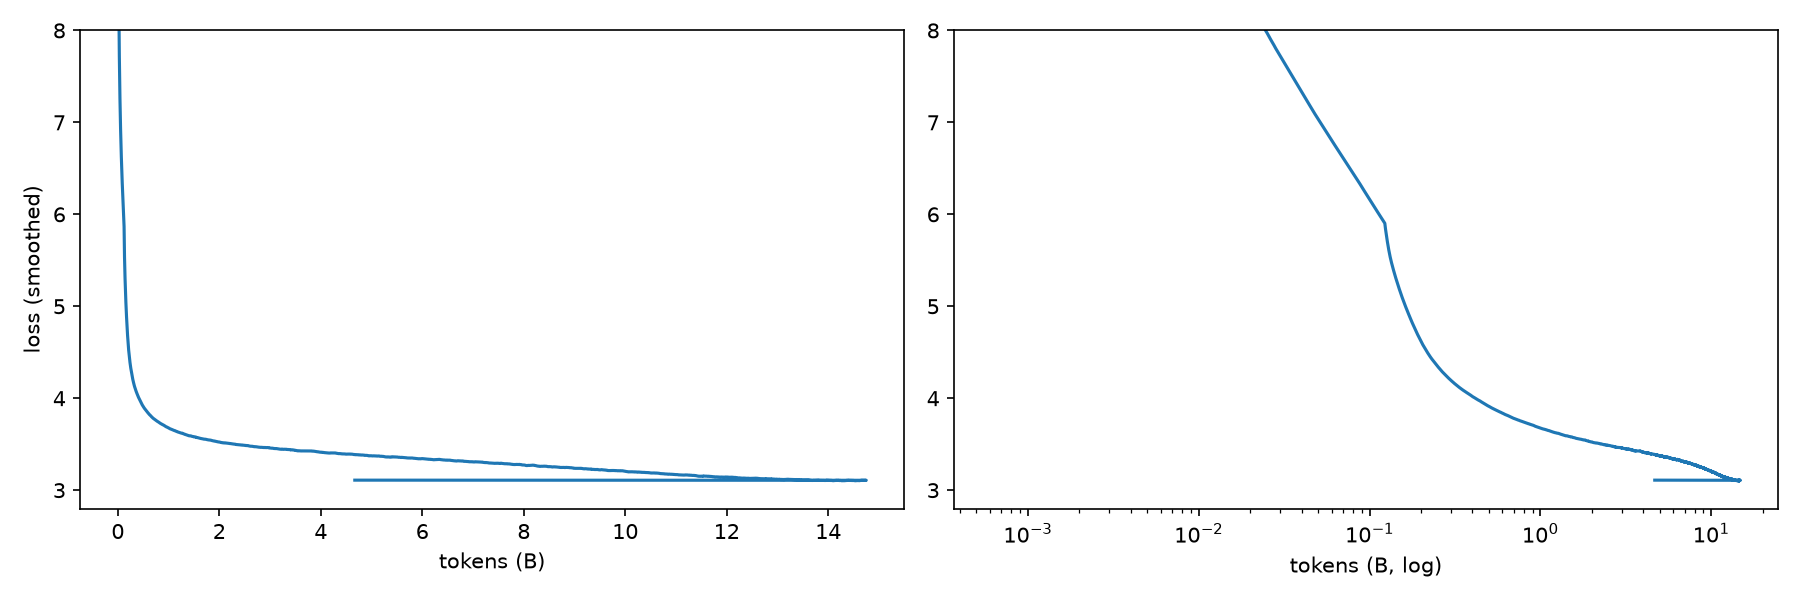
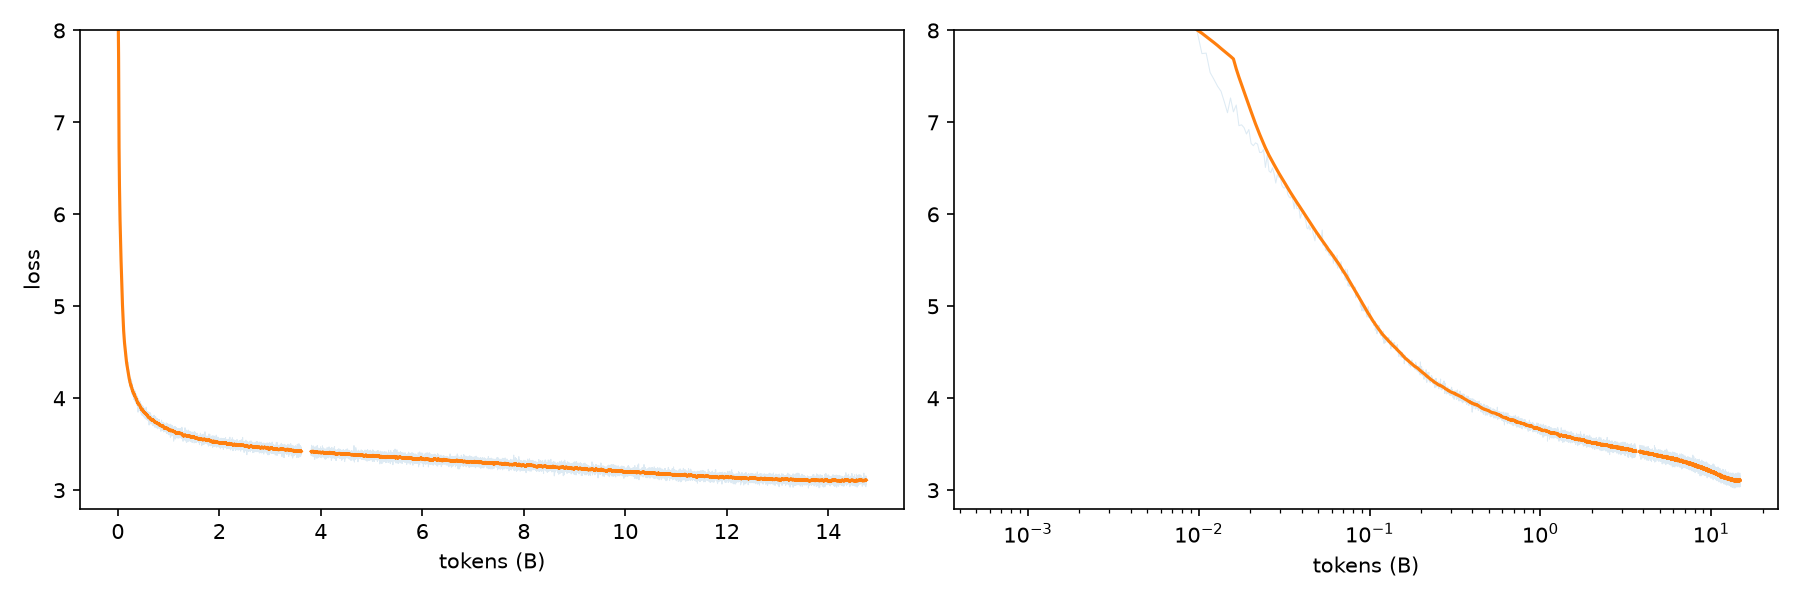
add requirements.txt, start writing README.md

diff --git a/query_llm.py b/query_llm.py
@@ -1,14 +1,14 @@
 import sys, torch
 from ddp_worker import GPT, vocab_size, id_to_vocab, vocab_to_id, bpe_ranks
-import tokenizer
+from active_scripts import tokenizer
 
 device = "cuda" if torch.cuda.is_available() else "cpu"
 model = GPT(vocab_size=vocab_size, max_seq_len=1024, d_model=1024, heads=16, num_layers=16)
 model.load_state_dict(torch.load("gpt300m_bf16.pt", map_location="cpu"))
 model = model.to(device).eval()
-
+print("saved; params:", sum(p.numel() for p in model.parameters()) / 1e6, "M")
 @torch.no_grad()
-def generate(prompt, max_new_tokens=100, temperature=0.8, top_k=50, top_p=0.9, rep_penalty=1.1):
+def generate(prompt, max_new_tokens=100, temperature=0.5, top_k=20, top_p=0.7, rep_penalty=1.1):
     ids = tokenizer.encode(prompt, vocab_to_id, bpe_ranks)
     x = torch.tensor([ids], dtype=torch.long, device=device)
     for _ in range(max_new_tokens):

diff --git a/README.md b/README.md
@@ -1,0 +1,45 @@
+# Custom 300M Param GPT LLM
+## At a glance:
+This repo contains a custom made ~300 million parameter GPT-style language model, 
+with the tokenizer, architecure, and training stack written 
+entirely from scratch. The model was trained on roughly 14.75 Billion tokens,
+tokens of OpenWebText2, on two RTX 3090s for nearly 100 hours. totalling nearly 30 ExaFLOP of compute. Final loss was 
+around 3.1
+
+## Results at a glance:
+
+![Loss](figures/loss_curve.png)
+
+| Parameters               | 300,648,448                               |
+|:-------------------------|:------------------------------------------|
+| Context / Vocab          | 1,024 / 127k  <br/> byte-level BPE        |
+| Training Data            | OpenWebText2, 14.75B tokens, 1 epoch      |
+| Hardware                 | 2x RTX 3090                               |
+| Wall-clock               | TODO                                      |
+| Final Training Loss      | 3.11                                      |
+| Loss on slice of dataset | 3.03                                      |
+| Hellaswag, 0-shot        | acc_norm 0.325, acc 0.297 (random = 0.25) |
+
+### Sample generations
+- Prompt: 1+1=
+  - **Response:**
+        
+        1+1=100000*1000*1000000
+        
+        0 0 0 0 0 0 0 0 0 0 0
+        
+        The size of the buffer is defined as the number of bytes in the memory address.
+        
+        We could have written:
+        
+        mov eax, d⭐ ptr [esi] ; mov edi, d⭐ ptr [esi+ecx], esi;
+        
+        However, this will result in an infinite loop, because the value of the second argument (esp) will be equal to
+- Prompt: The history of the
+  - **Response:**
+        
+        The history of the US and the UK’s relationship with the EU is a complex one, but it has been a long-running one.
+
+        It began in the early 1970s when the UK was granted membership of the European Economic Community (EEC) after the Second World War. The UK joined the EEC in 1973upt the terms of the Treaty of Rome, which established the bloc as a single market for goods and services.
+
+        In 1979, the UK joined the European Economic Community (EEC) as an observer state, and
